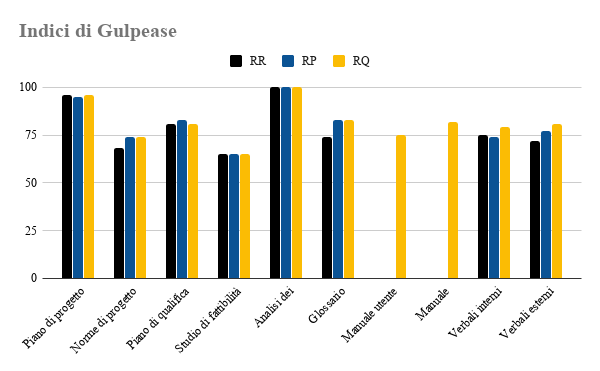
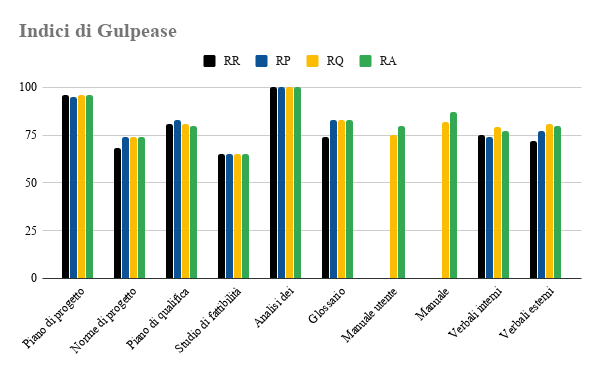
docs: aggiorna metriche documenti

diff --git a/esterni/piano-di-qualifica/components/report-verifica.tex b/esterni/piano-di-qualifica/components/report-verifica.tex
@@ -32,6 +32,12 @@ Il test, eseguito automaticamente, impedisce l'approvazione definitiva se vengon
   \label{fig:indice_correttezza_ortografica_RQ}%
 \end{figure}
 
+\begin{figure}[H]
+  \centering
+  \includegraphics[width=160mm]{correttezzaortografica-RA.png}%
+  \caption{Indice di correttezza ortografica \- RA}%
+  \label{fig:indice_correttezza_ortografica_RA}%
+\end{figure}
 
 
 % sub:analisi_statica_doc (end)
@@ -40,32 +46,24 @@ Il test, eseguito automaticamente, impedisce l'approvazione definitiva se vengon
 
 Allo scopo di assicurarci una leggibilità accettabile dei documenti abbiamo monitorato l'indice \glossario{Gulpease} di ogni documento. Qui sotto riportiamo i risultati associati alle versioni consegnate in occasione delle revisioni di avanzamento relativamente agli obiettivi di qualità che erano stati definiti.
 \rowcolors{2}{lightgray}{white!80!lightgray!100}
-\begin{longtable}[H]{>{\centering\bfseries}m{6cm} >{\centering\arraybackslash}m{2cm} >{\centering\arraybackslash}m{2cm}>{\centering\arraybackslash}m{2cm} >{\centering\arraybackslash}m{4cm}}
+\begin{longtable}[H]{>{\centering\bfseries}m{6cm} >{\centering\arraybackslash}m{1.5cm} >{\centering\arraybackslash}m{1.5cm}>{\centering\arraybackslash}m{1.5cm}>{\centering\arraybackslash}m{1.5cm} >{\centering\arraybackslash}m{4cm}}
   \rowcolor{darkgray!90!}
-  \color{white}{\textbf{Documento}} & \color{white}{\textbf{RR}} & \color{white}{\textbf{RP}} & \color{white}{\textbf{RQ}} & \color{white}{\textbf{Esito dell'ultima verifica}} \\
-  Piano di Progetto                 & 96                         & 95                         & 96                         & Sufficiente                                        \\
-  Norme di Progetto                 & 68                         & 74                         & 74                         & Sufficiente                                        \\
-  Piano di Qualifica                & 81                         & 83                         & 81                         & Sufficiente                                        \\
-  Studio di Fattibilità             & 65                         & ---                        & ---                        & Sufficiente                                        \\
-  Analisi dei requisiti             & 100                        & 100                        & 100                        & Sufficiente                                        \\
-  Glossario                         & 74                         & 83                         & 83                         & Sufficiente                                        \\
-  Manuale utente                    & ---                        & ---                        & 75                         & Sufficiente                                        \\
-  Manuale sviluppatore              & ---                        & ---                        & 82                         & Sufficiente                                        \\
-  Verbali esterni (media)           & 77                         & 74                         & 79                         & Sufficiente                                        \\
-  Verbali interni (media)           & 80                         & 77                         & 81                         & Sufficiente                                        \\
+  \color{white}{\textbf{Documento}} & \color{white}{\textbf{RR}} & \color{white}{\textbf{RP}} & \color{white}{\textbf{RQ}} & \color{white}{\textbf{RQ}} & \color{white}{\textbf{Esito dell'ultima verifica}} \\
+  Piano di Progetto                 & 96                         & 95                         & 96                         & 96                         & Sufficiente                                        \\
+  Norme di Progetto                 & 68                         & 74                         & 74                         & 74                         & Sufficiente                                        \\
+  Piano di Qualifica                & 81                         & 83                         & 81                         & 80                         & Sufficiente                                        \\
+  Studio di Fattibilità             & 65                         & ---                        & ---                        & ---                        & Sufficiente                                        \\
+  Analisi dei requisiti             & 100                        & 100                        & 100                        & 100                        & Sufficiente                                        \\
+  Glossario                         & 74                         & 83                         & 83                         & 83                         & Sufficiente                                        \\
+  Manuale utente                    & ---                        & ---                        & 75                         & 80                         & Sufficiente                                        \\
+  Manuale sviluppatore              & ---                        & ---                        & 82                         & 87                         & Sufficiente                                        \\
+  Verbali esterni (media)           & 77                         & 74                         & 79                         & 77                         & Sufficiente                                        \\
+  Verbali interni (media)           & 80                         & 77                         & 81                         & 80                         & Sufficiente                                        \\
   \rowcolor{white}
   \caption{Indici di Gulpease}%
   \label{tab:indici_gulpease}
 \end{longtable}
-% \begin{figure}[H]
-%   \centering
-%   \includegraphics[width=160mm]{gulpease-RR.png}%
-% \end{figure}
 
-% \begin{figure}[H]
-%   \centering
-%   \includegraphics[width=160mm]{gulpease-RP.png}%
-% \end{figure}
 
 \begin{figure}[H]
   \centering
